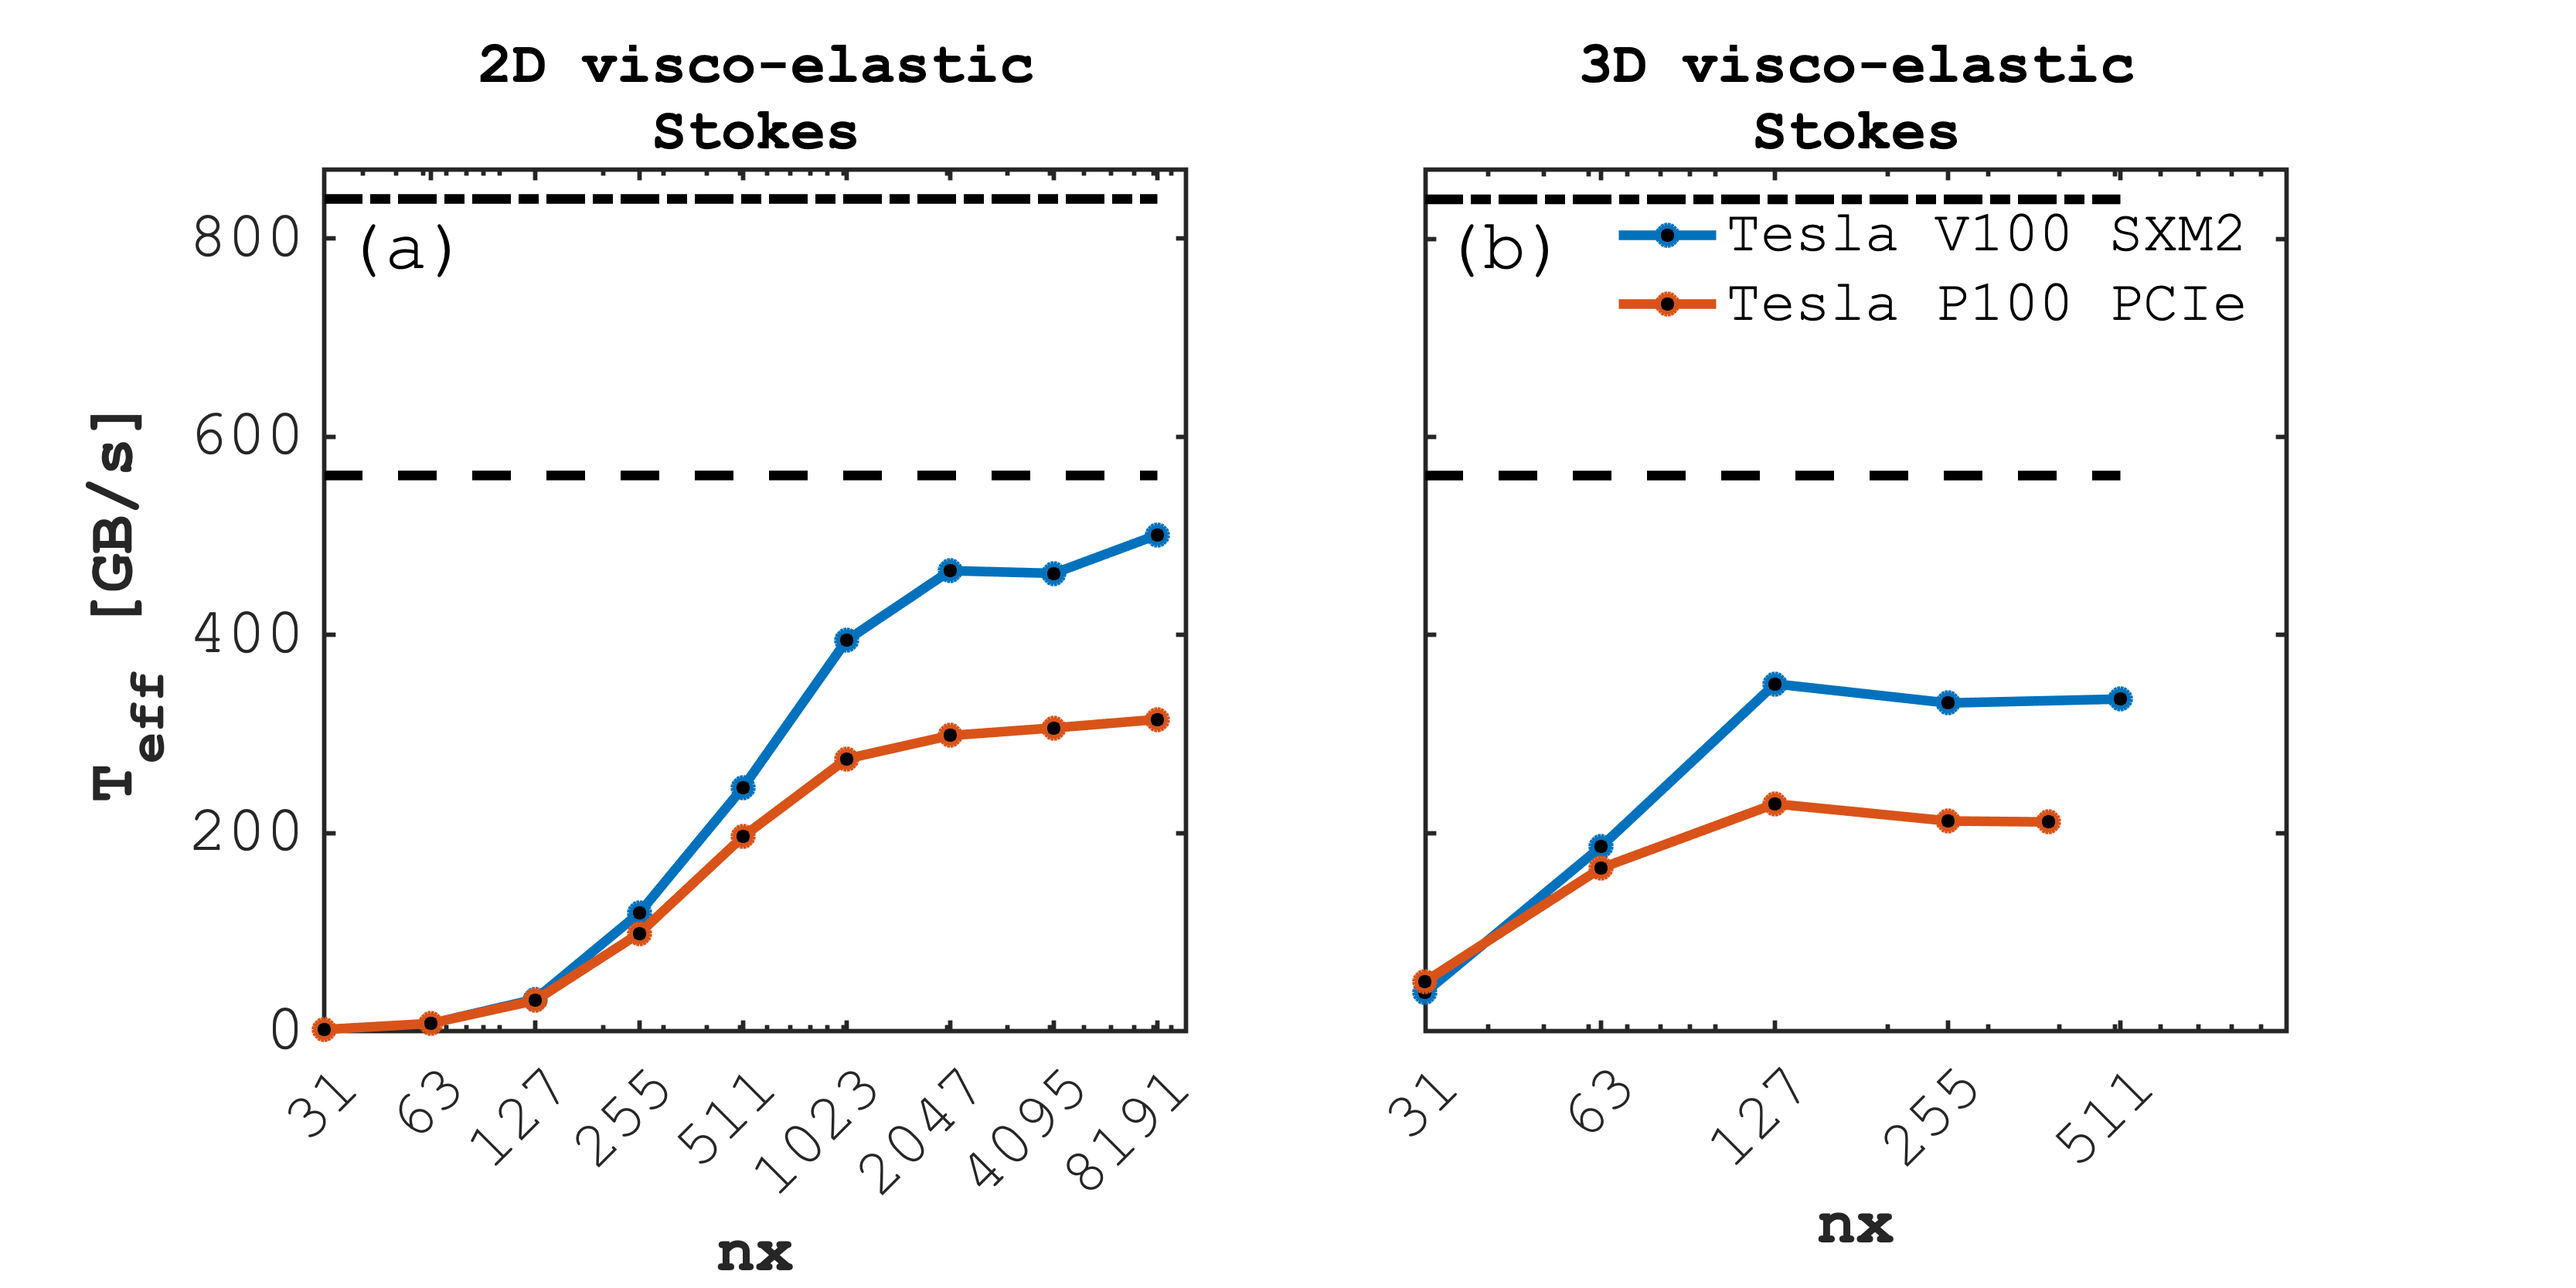
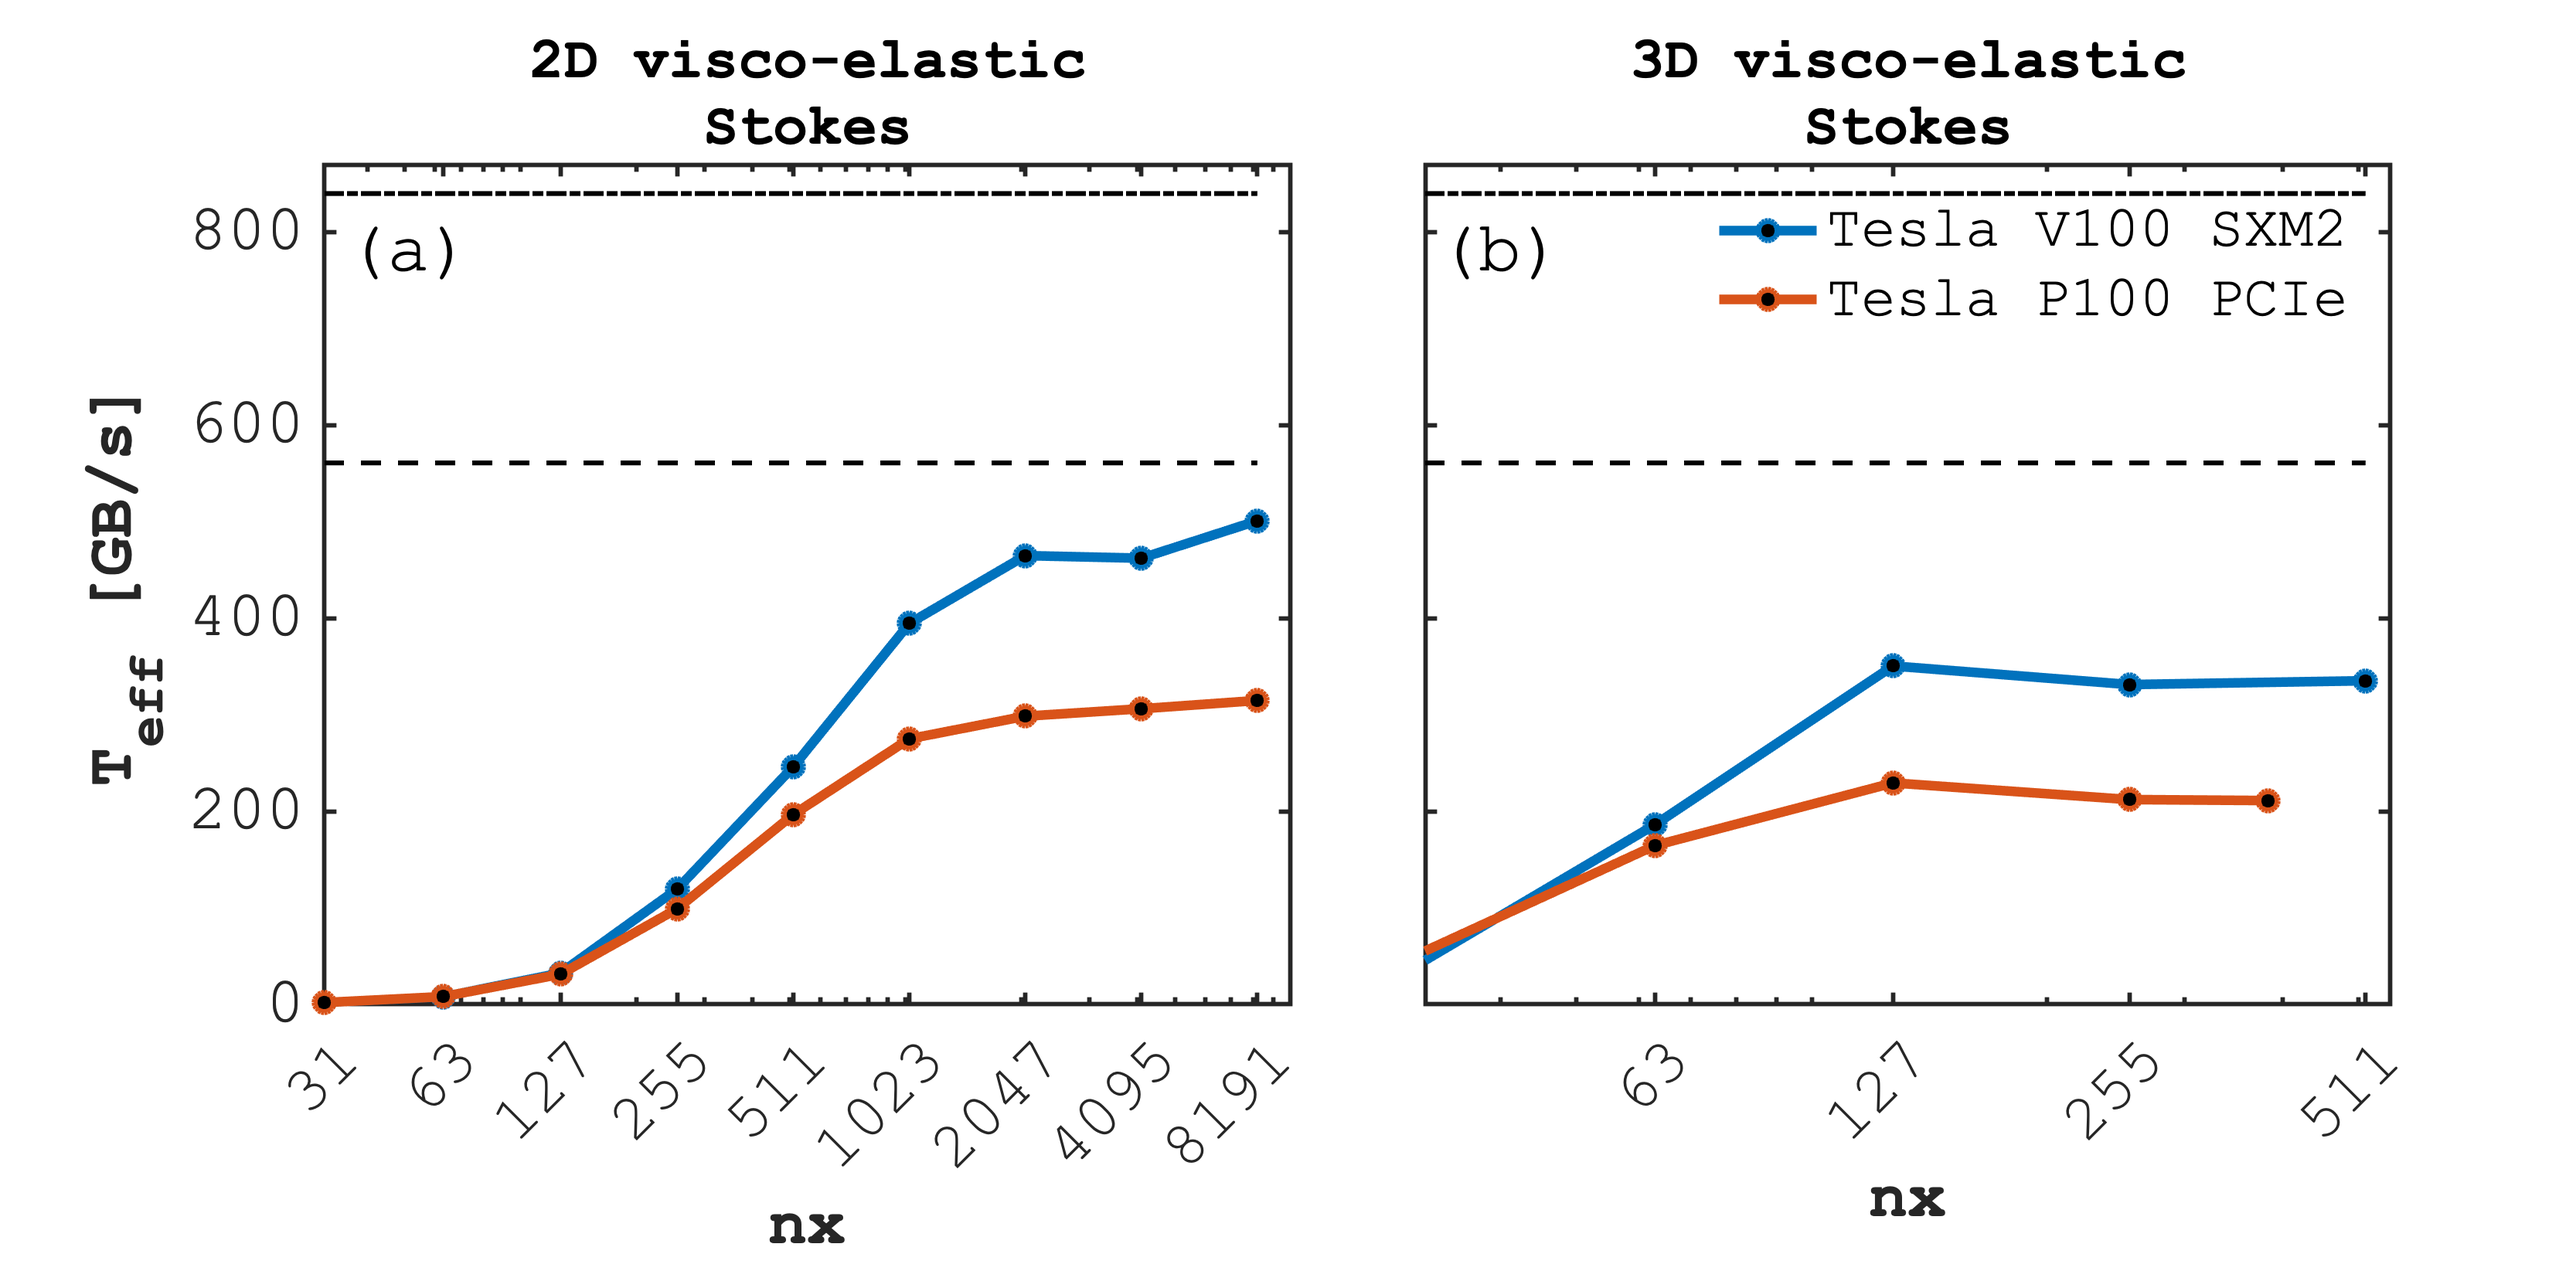
Update figure layout.

diff --git a/visu/viz_perf_stokes.m b/visu/viz_perf_stokes.m
@@ -51,14 +51,16 @@ single_daint_diff   = 315.6;
 single_daint_stokes = 210.2;
 single_volta_diff   = 481.1;
 single_volta_stokes = 334.1;
+sc = 100; % to get percent
 
 FS = 20;
 mylim = [0 870];
-ylab = 790;
+mylimx = [32 550];
+ylab = 780;
 
-mylim2 = [0.959 1.003];
-mylimx = [0.8 3.e3];
-ylab2 = 0.963;
+mylim2  = [0.959 1.003].*sc;
+mylimx2 = [0.8 3.e3];
+ylab2 = 0.963.*sc;
 
 fig1 = 1;
 fig2 = 1;
@@ -71,9 +73,12 @@ sp1 = subplot(121);
 %stokes_2D_octo_2(1,:),T_peak_octo*ones(size(stokes_2D_octo_2(1,:))), 'k--',...
 semilogx(stokes_2D_volta_2(1,:),stokes_2D_volta_2(end,:), '-o', ...
          stokes_2D_daint_2(1,:),stokes_2D_daint_2(end,:), '-o', ...
-         stokes_2D_octo_2(1,:),T_peak_volta*ones(size(stokes_2D_octo_2(1,:))),'k-.', ...
+         'linewidth',3, 'MarkerFaceColor','k'), set(gca, 'fontsize',FS, 'linewidth',1.4)
+hold on
+semilogx(stokes_2D_octo_2(1,:),T_peak_volta*ones(size(stokes_2D_octo_2(1,:))),'k-.', ...
          stokes_2D_octo_2(1,:),T_peak_daint*ones(size(stokes_2D_octo_2(1,:))),'k--', ...
-         'linewidth',3, 'MarkerFaceColor','k'), axis square, set(gca, 'fontsize',FS, 'linewidth',1.4)
+         'linewidth',1.5, 'MarkerFaceColor','k')
+hold off
 title({'2D visco-elastic'; 'Stokes'},'fontsize',FS-2)
  ylabel({' ';'\bf{T_{eff} [GB/s]}'}, 'fontsize',FS)
 ylim(mylim)
@@ -89,20 +94,24 @@ sp2 = subplot(122);
 %stokes_3D_volta_2(2,:),T_peak_octo*ones(size(stokes_3D_volta_2(2,:))), 'k--',...
 semilogx(stokes_3D_volta_2(2,:),stokes_3D_volta_2(end,:), '-o', ...
          stokes_3D_daint_2(2,:),stokes_3D_daint_2(end,:), '-o', ...
-         stokes_3D_volta_2(2,:),T_peak_volta*ones(size(stokes_3D_volta_2(2,:))),'k-.', ...
+         'linewidth',3, 'MarkerFaceColor','k'), set(gca, 'fontsize',FS, 'linewidth',1.4)
+hold on
+semilogx(stokes_3D_volta_2(2,:),T_peak_volta*ones(size(stokes_3D_volta_2(2,:))),'k-.', ...
          stokes_3D_volta_2(2,:),T_peak_daint*ones(size(stokes_3D_volta_2(2,:))), 'k--',...
-         'linewidth',3, 'MarkerFaceColor','k'), axis square, set(gca, 'fontsize',FS, 'linewidth',1.4)
+         'linewidth',1.5, 'MarkerFaceColor','k')
+hold off
 title({'3D visco-elastic'; 'Stokes'},'fontsize',FS-2)
 lg=legend('Tesla V100 SXM2', 'Tesla P100 PCIe'); set(lg,'box','off')
 ylim(mylim)
+xlim(mylimx)
 set(gca, 'XTick',stokes_3D_volta_2(2,:), 'YTicklabel',[])
 xtickangle(45)
 set(gca,'fontname','Courier')
 xlabel('\bf{nx}', 'fontsize',FS)
 text(33,ylab,'(b)','fontsize',FS+2,'fontname','Courier')
 
-pos1 = get(sp1,'position'); set(sp1,'position',[pos1(1)*0.97  pos1(2)*1.15 pos1(3)*1 pos1(4)*1])
-pos2 = get(sp2,'position'); set(sp2,'position',[pos2(1)*0.97  pos2(2)*1.15 pos2(3)*1 pos2(4)*1])
+pos1 = get(sp1,'position'); set(sp1,'position',[pos1(1)*0.97  pos1(2)*2 pos1(3)*1.12 pos1(4)*0.8])
+pos2 = get(sp2,'position'); set(sp2,'position',[pos2(1)*0.97  pos2(2)*2 pos2(3)*1.12 pos2(4)*0.8])
 fig = gcf;
 fig.PaperPositionMode = 'auto';
 % print('fig_perf23D_stokes_2','-dpng','-r300')
@@ -112,14 +121,14 @@ if fig2==1
 figure(2),clf,set(gcf,'color','white','pos',[1400 10 800 400])
 sp1 = subplot(121);
 % diff_3D_mxpu_octo_2(1,:),diff_3D_mxpu_octo_2(end,:)./diff_3D_mxpu_octo_2(end,1), '-o', ...
-semilogx(diff_3D_mxpu_volta_2(1,:),diff_3D_mxpu_volta_2(end,:)./single_volta_diff, '-o', ...
-         diff_3D_mxpu_daint_2(1,:),diff_3D_mxpu_daint_2(end,:)./single_daint_diff, '-o', ...
-        'linewidth',3, 'MarkerFaceColor','k'), axis square, set(gca, 'fontsize',FS, 'linewidth',1.4)
+semilogx(diff_3D_mxpu_volta_2(1,:),diff_3D_mxpu_volta_2(end,:)./single_volta_diff.*sc, '-o', ...
+         diff_3D_mxpu_daint_2(1,:),diff_3D_mxpu_daint_2(end,:)./single_daint_diff.*sc, '-o', ...
+        'linewidth',3, 'MarkerFaceColor','k'), set(gca, 'fontsize',FS, 'linewidth',1.4)
 title({'3D nonlinear'; 'diffusion'},'fontsize',FS-2)
-ylabel({' ';'\bf{E}'}, 'fontsize',FS)
+ylabel({' ';'\bf{E} [%]'}, 'fontsize',FS)
 % lg=legend('Titan Xm', 'Tesla V100 SXM2'); set(lg,'box','off')
 ylim(mylim2)
-xlim(mylimx)
+xlim(mylimx2)
 set(gca, 'XTick',diff_3D_mxpu_daint_2(1,:))
 xtickangle(45)
 set(gca,'fontname','Courier')
@@ -128,22 +137,22 @@ text(1.1,ylab2,'(a)','fontsize',FS+2,'fontname','Courier')
 
 sp2 = subplot(122);
 % stokes_3D_mxpu_octo_2(1,:),stokes_3D_mxpu_octo_2(end,:)./stokes_3D_mxpu_octo_2(end,1), '-o', ...
-semilogx(stokes_3D_mxpu_volta_2(1,:),stokes_3D_mxpu_volta_2(end,:)./single_volta_stokes, '-o', ...
-         stokes_3D_mxpu_daint_2(1,:),stokes_3D_mxpu_daint_2(end,:)./single_daint_stokes, '-o', ...
-     'linewidth',3, 'MarkerFaceColor','k'), axis square, set(gca, 'fontsize',FS, 'linewidth',1.4)
+semilogx(stokes_3D_mxpu_volta_2(1,:),stokes_3D_mxpu_volta_2(end,:)./single_volta_stokes.*sc, '-o', ...
+         stokes_3D_mxpu_daint_2(1,:),stokes_3D_mxpu_daint_2(end,:)./single_daint_stokes.*sc, '-o', ...
+     'linewidth',3, 'MarkerFaceColor','k'), set(gca, 'fontsize',FS, 'linewidth',1.4)
 title({'3D visco-elastic'; 'Stokes'},'fontsize',FS-2)
 % ylabel({' ';'\bf{E}'}, 'fontsize',FS)
 lg=legend('Tesla V100 SXM2', 'Tesla P100 PCIe'); set(lg,'box','off')
 ylim(mylim2)
-xlim(mylimx)
+xlim(mylimx2)
 set(gca, 'XTick',stokes_3D_mxpu_daint_2(1,:), 'YTicklabel',[])
 xtickangle(45)
 set(gca,'fontname','Courier')
 xlabel('\bf{P (GPUs)}', 'fontsize',FS)
 text(1.1,ylab2,'(b)','fontsize',FS+2,'fontname','Courier')
 
-pos1 = get(sp1,'position'); set(sp1,'position',[pos1(1)*1.04  pos1(2)*1.2 pos1(3)*1 pos1(4)*1])
-pos2 = get(sp2,'position'); set(sp2,'position',[pos2(1)*0.96  pos2(2)*1.2 pos2(3)*1 pos2(4)*1])
+pos1 = get(sp1,'position'); set(sp1,'position',[pos1(1)*1.04  pos1(2)*2 pos1(3)*1.1 pos1(4)*0.8])
+pos2 = get(sp2,'position'); set(sp2,'position',[pos2(1)*0.96  pos2(2)*2 pos2(3)*1.1 pos2(4)*0.8])
 
 fig = gcf;
 fig.PaperPositionMode = 'auto';

diff --git a/visu/viz_scaling_stokes.m b/visu/viz_scaling_stokes.m
@@ -27,7 +27,7 @@ figure(2),clf,set(gcf,'color','white','pos',[1400 10 500 400])
 
 semilogx(Stokes_2D(1,2:end), Stokes_2D(3,2:end)./Stokes_2D(1,2:end)./Stokes_2D(4,2:end),'-o', ...
          Stokes_3D(1,1:end), Stokes_3D(4,1:end)./Stokes_3D(1,1:end)./Stokes_3D(5,1:end),'-o', ...
-         'linewidth',3, 'MarkerFaceColor','k'), axis square, set(gca, 'fontsize',FS, 'linewidth',1.4)
+         'linewidth',3, 'MarkerFaceColor','k'), set(gca, 'fontsize',FS, 'linewidth',1.4)
 ylabel({' ';'\bf{iter_{tot}/nt/nx}'}, 'fontsize',FS)
 ylim([15 20]) % ylim([3 15])
 lg=legend('2D', '3D'); set(lg,'box','off')
